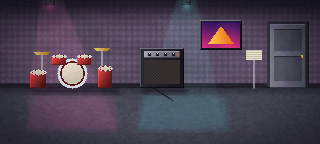
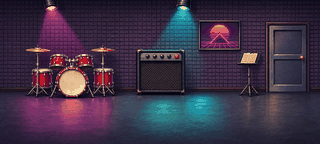
Bandraum 1986: Hintergrund des Nutzers, Strahler und Notenständer anklickbar

diff --git a/src/game/rooms/bandraum.ts b/src/game/rooms/bandraum.ts
@@ -12,9 +12,33 @@ export const bandraum: RoomDef = {
         scale: { yFar: 92, sFar: 0.88, yNear: 140, sNear: 1 },
         hotspots: [
           {
+            id: 'strahler_links',
+            name: 'hotspot.strahler',
+            area: rect(44, 0, 15, 11),
+            walkTo: [52, 96],
+            face: 'hinten',
+            comments: { schauan: 'say.k1.band_strahler' },
+          },
+          {
+            id: 'strahler_rechts',
+            name: 'hotspot.strahler',
+            area: rect(175, 0, 17, 11),
+            walkTo: [183, 96],
+            face: 'hinten',
+            comments: { schauan: 'say.k1.band_strahler' },
+          },
+          {
+            id: 'notenstaender',
+            name: 'hotspot.notenstaender',
+            area: rect(237, 52, 24, 44),
+            walkTo: [249, 98],
+            face: 'hinten',
+            comments: { schauan: 'say.k1.band_noten' },
+          },
+          {
             id: 'schlagzeug',
             name: 'hotspot.schlagzeug',
-            area: rect(28, 50, 88, 38),
+            area: rect(26, 46, 91, 50),
             walkTo: [72, 96],
             face: 'hinten',
             comments: { schauan: 'say.k1.band_schlagzeug', benutze: 'say.k1.band_schlagzeug_benutze' },
@@ -22,7 +46,7 @@ export const bandraum: RoomDef = {
           {
             id: 'verstaerker',
             name: 'hotspot.band_verstaerker',
-            area: rect(140, 48, 44, 40),
+            area: rect(136, 48, 49, 45),
             walkTo: [162, 96],
             face: 'hinten',
             comments: { schauan: 'say.k1.band_verstaerker', benutze: 'say.k1.band_verstaerker_benutze' },
@@ -30,7 +54,7 @@ export const bandraum: RoomDef = {
           {
             id: 'poster',
             name: 'hotspot.poster',
-            area: rect(200, 20, 42, 30),
+            area: rect(199, 19, 43, 31),
             walkTo: [221, 96],
             face: 'hinten',
             comments: { schauan: 'say.k1.band_poster' },
@@ -54,7 +78,7 @@ export const bandraum: RoomDef = {
           {
             id: 'tuer',
             name: 'hotspot.tuer_flur',
-            area: rect(268, 22, 40, 66),
+            area: rect(266, 22, 42, 68),
             walkTo: [287, 96],
             face: 'hinten',
             exit: { room: 'schule_flur', at: [53, 100], face: 'vorne' },

diff --git a/tools/paint/build.ts b/tools/paint/build.ts
@@ -107,7 +107,7 @@ const UI: Record<string, () => Picture> = {
 };
 
 /** Vom Nutzer gezeichnete Bilder: Sie werden nie übermalt, auch nicht mit --force oder Namensfilter. */
-const EIGENE_BILDER = new Set(['titel', 'martys_zimmer_1986', 'kueche_1986', 'arbeitszimmer_1986', 'vorgarten_1986', 'vorgarten_1986_tannenburg', 'veranda_1986', 'docs_labor_1986', 'stadtplan_1986', 'stadtplan_1986_tannenburg', 'rathausplatz_1986', 'rathausplatz_1986_tannenburg', 'turmeingang_1986', 'uhrwerk_1986', 'schule_flur_1986']);
+const EIGENE_BILDER = new Set(['titel', 'martys_zimmer_1986', 'kueche_1986', 'arbeitszimmer_1986', 'vorgarten_1986', 'vorgarten_1986_tannenburg', 'veranda_1986', 'docs_labor_1986', 'stadtplan_1986', 'stadtplan_1986_tannenburg', 'rathausplatz_1986', 'rathausplatz_1986_tannenburg', 'turmeingang_1986', 'uhrwerk_1986', 'schule_flur_1986', 'bandraum_1986']);
 
 const args = process.argv.slice(2);
 const force = args.includes('--force');

diff --git a/src/game/rooms/leben.ts b/src/game/rooms/leben.ts
@@ -206,7 +206,11 @@ const LEBEN: Record<string, Leben> = {
   // Die Zahnräder sind 1986 ins Bild gemalt und stehen still; nur die Lampe glimmt.
   uhrwerk_1986: { floor: 'holz', ambience: 'amb_uhrwerk', effects: [lampe(291, 17, 14, 0xffc070, 0.3, 0.3)] },
   schule_flur_1986: { floor: 'stein', ambience: 'amb_schule', fidget: { strickland: ['blick', 'talk'] } },
-  bandraum_1986: { floor: 'holz', ambience: 'amb_schule' },
+  bandraum_1986: {
+    floor: 'stein',
+    ambience: 'amb_schule',
+    effects: [lampe(51, 6, 9, 0xff50c0, 0.3, 0.2), lampe(183, 6, 9, 0x40e0ff, 0.3, 0.2)],
+  },
   schuelerzeitung_1986: { floor: 'teppich', ambience: 'amb_schule', fidget: { jennifer: ['pickup', 'blick'] } },
 
   // --- 1955 ---------------------------------------------------------------------------------
